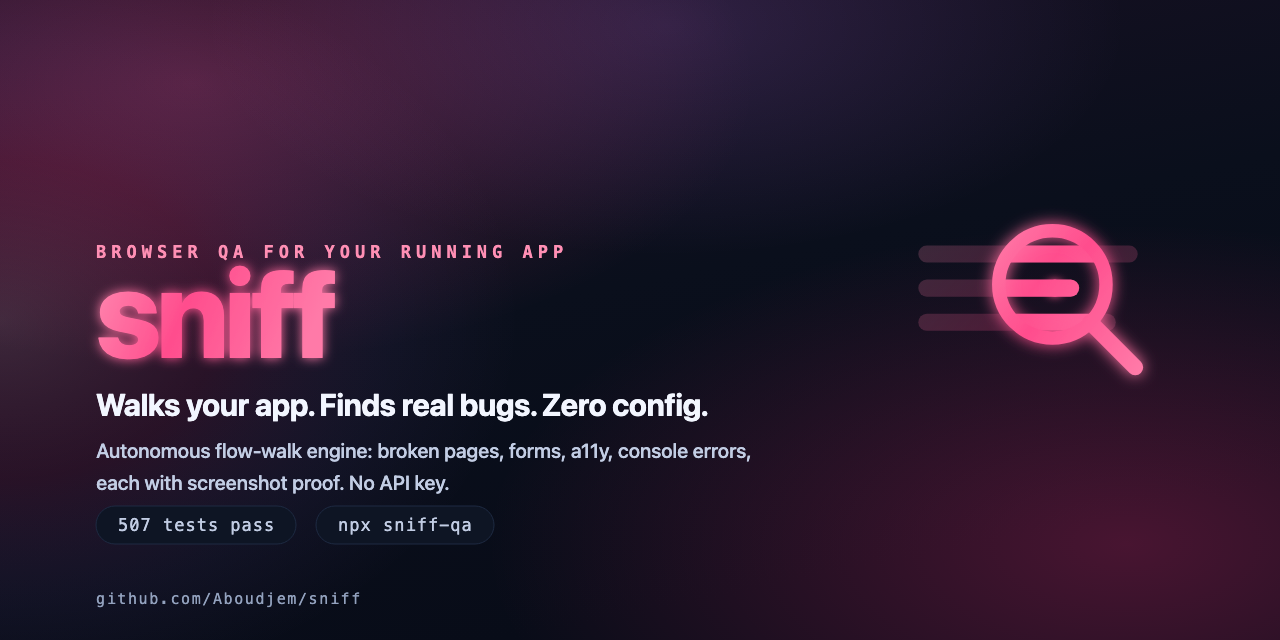
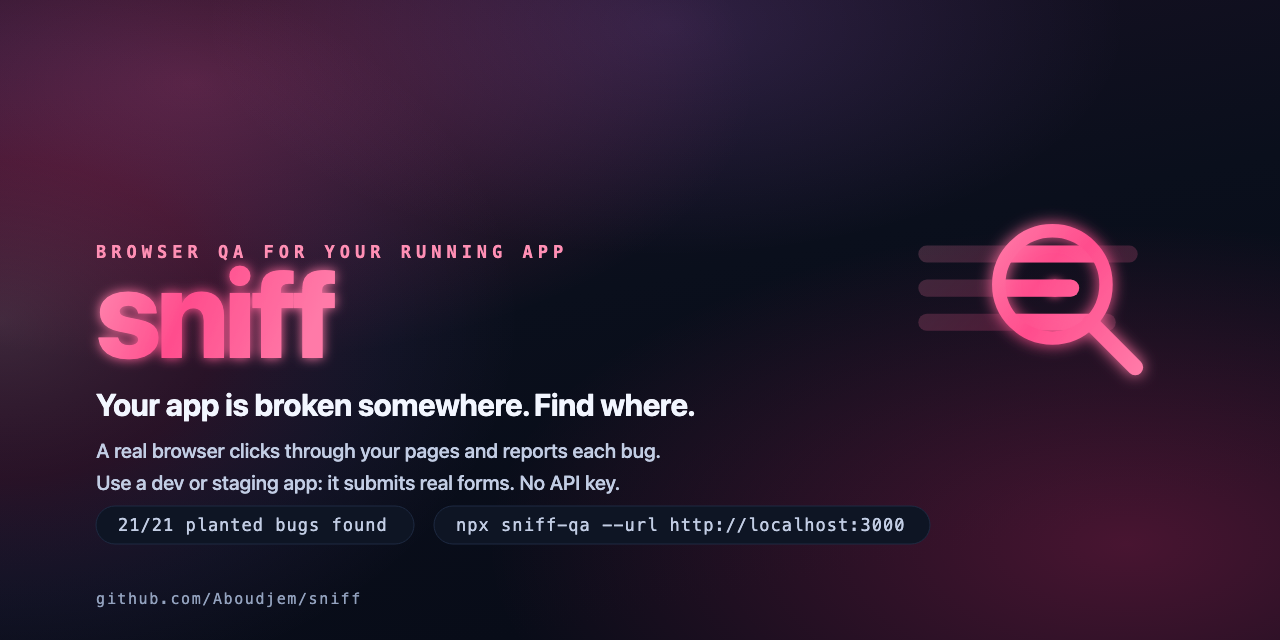
release: 0.9.2, a clearer first screen and truer wording
The README opens with the outcome, the command and the real report, then
a Why use it block with three benefits and their proof. The limit sits
next to the promise: a walk submits real forms, so use a dev or staging app.

Listing descriptions are one plain sentence. The README no longer says
every finding has a screenshot (23 of 27 on the fixture do), and the
first-run size is measured with npx sniff-qa install. Translations, hero
banners, the social preview, llms.txt, AGENTS.md and the Pages site carry
the same line. No behaviour change.

Changed region(s): [[0.0625, 0.6875, 0.5938, 0.7812], [0.0938, 0.7812, 0.75, 0.875], [0.0625, 0.5938, 0.5625, 0.6562]]

diff --git a/site/index.html b/site/index.html
@@ -3,10 +3,10 @@
 <head>
   <meta charset="utf-8" />
   <meta name="viewport" content="width=device-width, initial-scale=1" />
-  <title>Sniff - autonomous QA scanner for your running app</title>
-  <meta name="description" content="Point Sniff at your running app. It walks your real user flows in a real browser and tells you what is actually broken, with proof. No API key." />
-  <meta property="og:title" content="Sniff - autonomous QA scanner" />
-  <meta property="og:description" content="Walks your running app in a real browser and reports real bugs with reproduction proof." />
+  <title>sniff - catch what is broken in your web app before your users do</title>
+  <meta name="description" content="Catch the 500s, dead links and broken forms in your running web app, each with the steps that reproduce it. No API key." />
+  <meta property="og:title" content="sniff: catch what is broken before your users do" />
+  <meta property="og:description" content="A real browser clicks through your pages and reports each bug, with the steps that reproduce it." />
   <meta property="og:image" content="assets/demo.svg" />
   <style>
     :root {
@@ -57,7 +57,7 @@
 <body>
   <header class="wrap">
     <img class="logo" src="assets/logo-dark.svg" alt="Sniff" onerror="this.style.display='none'" />
-    <p class="tagline">Point it at your running app. It walks your real user flows in a real browser and tells you what is actually broken, with proof. No API key.</p>
+    <p class="tagline">Catch what is broken in your web app before your users do. A real browser clicks through your pages and reports each bug with the steps that reproduce it. Use a dev or staging app: it submits real forms. No API key.</p>
     <div class="cta">
       <a class="btn primary" href="https://github.com/Aboudjem/sniff">View on GitHub</a>
       <a class="btn" href="sample-report.html">See a sample report</a>

diff --git a/README.md b/README.md
@@ -12,7 +12,7 @@
 
 <p align="center"><b>English</b> · <a href="READMEs/zh-CN.md">简体中文</a> · <a href="READMEs/ja.md">日本語</a> · <a href="READMEs/es.md">Español</a> · <a href="READMEs/fr.md">Français</a></p>
 
-<p align="center"><b>Point it at your running app. It clicks through your pages in a real browser and tells you what is broken, with the steps to reproduce it.</b></p>
+<p align="center"><b>Catch what is broken in your web app before your users do.</b></p>
 
 <p align="center"><a href="#what-you-get">What you get</a> · <a href="#install">Install</a> · <a href="#how-it-works">How it works</a> · <a href="#works-with">Works with</a> · <a href="#proof">Proof</a> · <a href="#faq">FAQ</a> · <a href="#limits">Limits</a></p>
 
@@ -24,7 +24,6 @@ npx sniff-qa --url http://localhost:3000
 
 A report that opens with the verdict, then the three things to fix first, then every finding.
 This is the report from a real run on this repo's planted-bug fixture (2026-11-17, sniff 0.9.0).
-The progress lines that print before it are left out.
 
 ```text
   VERDICT  FAIL: 26 findings (1 critical, 13 high, 11 medium, 1 low)
@@ -46,26 +45,25 @@ The progress lines that print before it are left out.
       shot: sniff-reports/crawl/_crash-desktop.png
 ```
 
-Each finding carries a severity, a confidence label, the route, the steps, a fix and a screenshot.
+You changed one form, and now a page you never opened throws a 500. sniff opens your running app
+in a real browser and clicks through it like a user would. Each page bug it reports comes with
+the steps that reproduce it.
 
-To reproduce it from a clone, start the fixture, then walk it from a second terminal:
+### Why use it
+
+- **Fix it, do not hunt for it.** Each page finding names the route, the steps and a fix, most with a screenshot.
+- **Proof it catches real bugs.** Tested on bugs planted on purpose: 21 of 21 found, 0 false findings on the clean page (`npm run build && npm run proof`).
+- **Block bad merges.** `--fail-on` exits 1 on critical or high findings, and `npx sniff-qa ci` writes the GitHub Actions file. No API key.
+
+It needs your app running, and it submits real forms, so use a dev or staging app.
+The first walk downloads a browser once, about 720 MB on disk on a Mac.
+
+To reproduce the sample from a clone, start the fixture, then walk it from a second terminal:
 
 ```bash
 node sniff-tests/planted-bugs/server.mjs 4517
 npx sniff-qa --url http://localhost:4517
 ```
-
-| Output          | Flag        | Use it for                                  |
-| :-------------- | :---------- | :------------------------------------------ |
-| Terminal report | (default)   | Reading the result now                      |
-| HTML page       | `--report`  | Sending to someone, one self-contained file |
-| JSON            | `--json`    | Scripts and other tools                     |
-| Exit code       | `--fail-on` | Failing CI on real bugs                     |
-
-| Exit code | Meaning                                                                         |
-| :-------- | :------------------------------------------------------------------------------ |
-| `0`       | No finding reached the `--fail-on` severities (default: critical and high)      |
-| `1`       | A finding reached them, an `assert` budget was breached, or sniff could not run |
 
 <img alt="sniff walking a buggy app and streaming findings with severity, confidence, steps to reproduce, and a fix" src="https://raw.githubusercontent.com/Aboudjem/sniff/main/.github/assets/demo.gif" width="100%">
 
@@ -101,14 +99,20 @@ claude mcp add sniff-qa -- npx -y sniff-qa --mcp
 ```
 
 The first walk downloads two things, once: the browser engine (Playwright, axe-core and
-Lighthouse, about 200 MB) and Chromium (about 165 MB). Both took 159 s here on 2026-11-17.
-To do it ahead of time, run:
+Lighthouse) and Chromium. To do it ahead of time, run:
 
 ```bash
 npx sniff-qa install
 ```
 
-It ends with the time it took. `npx sniff-qa doctor` checks Node, the browser and your dev server.
+It ends with the time it took. On a Mac with an empty npm cache it printed 34 s (2026-11-17, sniff 0.9.1).
+It left 193 MB of engine and 528 MB of Chromium on disk. To re-measure on macOS:
+
+```bash
+du -sm ~/.cache/sniff-qa/engine/* ~/Library/Caches/ms-playwright
+```
+
+`npx sniff-qa doctor` checks Node, the browser and your dev server.
 
 The MCP server starts before those downloads. With an empty npm cache, `npx -y sniff-qa@0.9.1 --mcp`
 answered its first handshake in 3.1 to 4.9 s (5 runs, 2026-11-17). Version 0.9.0 took 37 to 93 s,
@@ -117,6 +121,20 @@ past Claude Code's 30 s connect limit. To re-measure, in a clone of this repo:
 ```bash
 npm run cold-start -- 0.9.1 5
 ```
+
+A walk prints progress lines, then the report. You can take the result four ways:
+
+| Output          | Flag        | Use it for                                  |
+| :-------------- | :---------- | :------------------------------------------ |
+| Terminal report | (default)   | Reading the result now                      |
+| HTML page       | `--report`  | Sending to someone, one self-contained file |
+| JSON            | `--json`    | Scripts and other tools                     |
+| Exit code       | `--fail-on` | Failing CI on real bugs                     |
+
+| Exit code | Meaning                                                                         |
+| :-------- | :------------------------------------------------------------------------------ |
+| `0`       | No finding reached the `--fail-on` severities (default: critical and high)      |
+| `1`       | A finding reached them, an `assert` budget was breached, or sniff could not run |
 
 <details>
 <summary>Project install and CI</summary>
@@ -132,7 +150,7 @@ with browser caching and report artifacts.
 1. **Find the app.** It uses `--url`, or a dev server on a common port.
 2. **Walk it.** A headless Chromium follows your links, clicks buttons and fills forms, like a user.
 3. **Judge what happened.** Each page is checked for 12 classes of bugs.
-4. **Prove it.** A finding needs a route, the steps, a screenshot and the console or network excerpt.
+4. **Prove it.** A finding needs a route and the steps. It adds a screenshot and the console or network lines when it has them.
 5. **Report.** Verdict first, then the fix-first list, then the detail.
 
 The 12 classes:
@@ -233,7 +251,7 @@ More answers are in [docs/faq.md](docs/faq.md).
 ## Limits
 
 - It needs a running app for the walk. Without one you only get the source scan.
-- The first walk needs internet to download the browser engine and Chromium once, about 365 MB.
+- The first walk needs internet to download the browser engine and Chromium once, 721 MB on disk on a Mac.
 - Until then, MCP browser tools answer `needsSetup` and the agent calls `sniff_install` first.
 - Dead-link checking follows external links, so a walk requests the third-party URLs your pages link to.
 - Redaction covers report text, not screenshot pixels. A screenshot of a logged-in page can show private data.

diff --git a/READMEs/ja.md b/READMEs/ja.md
@@ -12,7 +12,7 @@
 
 <p align="center"><a href="../README.md">English</a> · <a href="zh-CN.md">简体中文</a> · <b>日本語</b> · <a href="es.md">Español</a> · <a href="fr.md">Français</a></p>
 
-<p align="center"><b>起動中のアプリに向けるだけ。実際のブラウザで本物のユーザーフローを歩き、どこが本当に壊れているかを証拠つきで教えます。</b></p>
+<p align="center"><b>ユーザーより先に、Web アプリの壊れた箇所を見つけます。</b></p>
 
 <p align="center"><a href="#何をするツールか">何をするツールか</a> · <a href="#インストール">インストール</a> · <a href="#使い方">使い方</a> · <a href="#得られるもの">得られるもの</a> · <a href="#エディタで使う">エディタで使う</a> · <a href="#知っておくこと">知っておくこと</a></p>
 
@@ -25,18 +25,21 @@ claude plugin install sniff@10x
 
 ## 何をするツールか
 
-ほとんどのリンターはソースを読むだけで、アプリを動かすことはありません。E2E フレームワークはテストを
-自分で書いて維持することを求めます。sniff は起動中のアプリを実際のブラウザで開き、ユーザーと同じように
-クリックや入力を行い、その結果を判定します。
+フォームを 1 つ変えただけなのに、開いたこともないページが 500 を返すようになった。sniff は起動中の
+アプリを実際のブラウザで開き、ユーザーと同じようにページをたどります。報告するページの不具合には、
+それを再現する手順が付きます。
 
-- **12 種類の不具合を見つけます。** HTTP 500 のルートや切れたリンクから、プレースホルダのデータ、
-  反応しない送信ボタン、ブラウザの戻るで消えるフォーム、止まらないスピナー、モバイル幅での横方向の
-  はみ出しまで。
-- **すべてに証拠がつきます。** どの検出結果にも、対象のルートとそれを生んだ順序どおりの手順が付き、
-  さらにその検査が取得したスクリーンショットとコンソールまたはネットワークの抜粋が付きます。手順が
-  なければ検出結果にしません。
-- **実測しています。** 12 種類すべてにまたがる 21 個の不具合を仕込み、さらにクリーンな対照ページを
-  用意したフィクスチャアプリで、sniff は 21 個中 21 個を検出し、対照ページでは何も報告しませんでした。
+### 使う理由
+
+- **探さずに直せます。** ページの検出結果にはルート、手順、修正案が付き、ほとんどにスクリーンショットが
+  付きます。
+- **本物の不具合を見つける証拠があります。** わざと仕込んだ不具合で検証し、21 個中 21 個を検出、
+  クリーンなページでの誤検出は 0 件です（`npm run build && npm run proof`）。
+- **悪いマージを止められます。** `--fail-on` は critical か high の検出で終了コード 1 を返し、
+  `npx sniff-qa ci` が GitHub Actions のファイルを書きます。API キーは不要です。
+
+アプリが起動している必要があり、本物のフォームを送信するので、開発用かステージングのアプリに向けてください。
+最初のウォークではブラウザを一度だけダウンロードします。Mac ではディスク上で約 720 MB です。
 
 ## インストール
 
@@ -111,7 +114,7 @@ sniff v0.8.0  walking http://localhost:4321
   <img alt="The 12 classes of bugs sniff finds" src="https://raw.githubusercontent.com/Aboudjem/sniff/main/.github/assets/features-light.svg" width="100%">
 </picture>
 
-- **ターミナルのレポート。** 深刻度ごとにまとまり、各検出結果に手順、修正案、スクリーンショットのパスが
+- **ターミナルのレポート。** 深刻度ごとにまとまり、各検出結果に手順、修正案、多くの場合スクリーンショットのパスが
   付きます。
 - **共有できるファイル。** `--report` で自己完結型の HTML レポート、`--json` で JSON が得られます。
 - **終了コード。** 検出結果が `--fail-on` の深刻度に達すると 0 以外を返すので、CI は本物の不具合で

diff --git a/READMEs/zh-CN.md b/READMEs/zh-CN.md
@@ -12,7 +12,7 @@
 
 <p align="center"><a href="../README.md">English</a> · <b>简体中文</b> · <a href="ja.md">日本語</a> · <a href="es.md">Español</a> · <a href="fr.md">Français</a></p>
 
-<p align="center"><b>把它指向你正在运行的应用。它会用真实浏览器走一遍你真实的用户流程，并带着证据告诉你哪里真的坏了。</b></p>
+<p align="center"><b>在用户发现之前，找出你的 Web 应用里坏掉的地方。</b></p>
 
 <p align="center"><a href="#它做什么">它做什么</a> · <a href="#安装">安装</a> · <a href="#使用方法">使用方法</a> · <a href="#你会得到什么">你会得到什么</a> · <a href="#在你的编辑器中使用">在你的编辑器中使用</a> · <a href="#需要知道的事">需要知道的事</a></p>
 
@@ -25,15 +25,19 @@ claude plugin install sniff@10x
 
 ## 它做什么
 
-大多数静态检查工具只读你的源码，从不真正运行你的应用；端到端测试框架则要求你自己编写并维护测试。
-sniff 会用真实浏览器打开你正在运行的应用，像用户那样点击和填写，然后判断实际发生了什么。
+你只改了一个表单，结果一个你从没打开过的页面开始返回 500。sniff 会用真实浏览器打开你正在运行的
+应用，像用户那样逐页点过去。它报告的每个页面缺陷都附带能复现它的步骤。
 
-- **它能发现 12 类缺陷**，从 HTTP 500 路由和失效链接，到占位数据、点了没反应的提交按钮、被浏览器后退
-  按钮清空的表单、卡住的加载动画，以及移动端横向溢出。
-- **每一条都有证据。** 每条结果都会带上路由和产生它的有序操作步骤，以及该项检查所采集到的截图和
-  控制台或网络片段。没有步骤，就不算结果。
-- **它经过实测。** 在一个植入了 21 个缺陷、覆盖全部 12 类，并额外带一个干净对照页面的样例应用上，
-  sniff 找出了 21 个中的 21 个，并且在对照页面上没有报出任何结果。
+### 为什么用它
+
+- **直接修，不用找。** 每条页面结果都给出路由、步骤和修复建议，大多数还附带截图。
+- **有证据表明它能抓到真缺陷。** 在故意植入的缺陷上测试：21 个中找到 21 个，干净页面上 0 条误报
+  （`npm run build && npm run proof`）。
+- **拦住有问题的合并。** 出现 critical 或 high 结果时 `--fail-on` 以 1 退出，`npx sniff-qa ci`
+  会写好 GitHub Actions 文件。不需要 API 密钥。
+
+它需要你的应用正在运行，而且会提交真实表单，所以请用开发或预发布环境的应用。第一次遍历会下载一次浏览器，
+在 Mac 上约占 720 MB 磁盘空间。
 
 ## 安装
 
@@ -106,7 +110,7 @@ sniff v0.8.0  walking http://localhost:4321
   <img alt="The 12 classes of bugs sniff finds" src="https://raw.githubusercontent.com/Aboudjem/sniff/main/.github/assets/features-light.svg" width="100%">
 </picture>
 
-- **一份终端报告**，按严重程度分组，每条结果都带步骤、修复建议和一个截图路径。
+- **一份终端报告**，按严重程度分组，每条结果都带步骤、修复建议，大多数还带一个截图路径。
 - **一个可分享的文件**，用 `--report` 得到自包含的 HTML 报告，或用 `--json` 得到 JSON。
 - **一个退出码**，当结果达到 `--fail-on` 指定的严重程度时返回非零值，于是 CI 会因真实缺陷而失败。
 - **每条结果上的置信度标签**。除非你传入 `--all`，否则 `uncertain` 不会显示在终端里。

diff --git a/READMEs/es.md b/READMEs/es.md
@@ -12,7 +12,7 @@
 
 <p align="center"><a href="../README.md">English</a> · <a href="zh-CN.md">简体中文</a> · <a href="ja.md">日本語</a> · <b>Español</b> · <a href="fr.md">Français</a></p>
 
-<p align="center"><b>Apúntalo a tu aplicación en ejecución. Recorre tus flujos de usuario reales en un navegador real y te dice qué está roto de verdad, con pruebas.</b></p>
+<p align="center"><b>Detecta lo que está roto en tu aplicación web antes que tus usuarios.</b></p>
 
 <p align="center"><a href="#qué-hace">Qué hace</a> · <a href="#instalación">Instalación</a> · <a href="#cómo-usarlo">Cómo usarlo</a> · <a href="#qué-obtienes">Qué obtienes</a> · <a href="#funciona-en-tu-editor">Funciona en tu editor</a> · <a href="#conviene-saber">Conviene saber</a></p>
 
@@ -25,20 +25,21 @@ claude plugin install sniff@10x
 
 ## Qué hace
 
-La mayoría de los linters leen tu código fuente sin llegar a ejecutar tu aplicación, y los frameworks
-de extremo a extremo te piden escribir y mantener las pruebas por tu cuenta. sniff abre tu aplicación
-en ejecución en un navegador real, hace clic y rellena campos como lo haría una persona, y juzga lo
-que ocurrió de verdad.
+Cambiaste un formulario, y ahora una página que nunca abriste devuelve un error 500. sniff abre tu
+aplicación en ejecución en un navegador real y la recorre como lo haría un usuario. Cada error de
+página que informa trae los pasos que lo reproducen.
 
-- **Encuentra 12 clases de errores**, desde rutas que devuelven HTTP 500 y enlaces rotos hasta datos
-  de relleno, botones de envío que no hacen nada, formularios que el botón de retroceso vacía,
-  indicadores de carga atascados y desbordamiento en móvil.
-- **Prueba cada uno.** Cada hallazgo lleva la ruta y los pasos ordenados que lo produjeron, más la
-  captura de pantalla y el fragmento de consola o de red que recogió la comprobación. Sin pasos, no
-  hay hallazgo.
-- **Está medido.** Sobre una aplicación de prueba con 21 errores plantados que cubren las 12 clases,
-  más una página de control limpia, sniff encuentra 21 de 21 y no informa nada en la página de
-  control.
+### Por qué usarlo
+
+- **Arregla en lugar de buscar.** Cada hallazgo de página indica la ruta, los pasos y un arreglo, la
+  mayoría con una captura de pantalla.
+- **Prueba de que encuentra errores reales.** Probado con errores plantados a propósito: 21 de 21
+  encontrados, 0 hallazgos falsos en la página limpia (`npm run build && npm run proof`).
+- **Bloquea los merges malos.** `--fail-on` sale con 1 ante un hallazgo crítico o alto, y
+  `npx sniff-qa ci` escribe el archivo de GitHub Actions. Sin clave de API.
+
+Necesita tu aplicación en marcha, y envía formularios reales: usa una aplicación de desarrollo o de
+staging. El primer recorrido descarga un navegador una vez, unos 720 MB en disco en un Mac.
 
 ## Instalación
 

diff --git a/CHANGELOG.md b/CHANGELOG.md
@@ -7,6 +7,23 @@ and this project adheres to [Semantic Versioning](https://semver.org/spec/v2.0.0
 
 ## [Unreleased]
 
+## [0.9.2] - 2026-11-17
+
+A clearer first screen and truer wording. No behaviour change: the code is the same as 0.9.1.
+
+### Changed
+
+- **README first screen.** It now opens with the outcome, the command and the real report. Under
+  the report, a short `Why use it` block gives three benefits, each with its proof. The limit sits
+  next to the promise: a walk submits real forms, so use a dev or staging app.
+- **Listing descriptions.** The plugin, npm, Gemini and MCP registry descriptions are now one plain
+  sentence instead of a feature list.
+- **Truer wording.** The README no longer says every finding has a screenshot. On the fixture, 23 of
+  27 findings have one, and source-scan findings have no route. The first-run size is now measured:
+  on a Mac, `npx sniff-qa install` left 193 MB of engine and 528 MB of Chromium on disk.
+- **Translations, hero banners, social preview, `llms.txt`, `AGENTS.md` and the Pages site** carry
+  the same one-liner.
+
 ## [0.9.1] - 2026-11-17
 
 The MCP server now connects on a new machine's first start.

diff --git a/AGENTS.md b/AGENTS.md
@@ -4,7 +4,7 @@ Instructions for AI agents and coding assistants working in, or invoking, this r
 
 ## What this repo is
 
-sniff is an autonomous QA scanner: point it at a running web app and it walks the app's real user flows in a real (headless) browser and reports what's actually broken, with proof. It is not a static linter. npm package `sniff-qa` (binaries `sniff` and `sniff-qa`); ships as both a CLI and an MCP server (Claude Code plugin); Apache-2.0; Node >= 22; no API key required.
+sniff catches what is broken in a running web app before its users do. It walks the app in a real (headless) browser and reports each page bug with the route, the steps that reproduce it and a fix. A walk clicks buttons and submits real forms, so point it at a dev or staging app. It is not a static linter. npm package `sniff-qa` (binaries `sniff` and `sniff-qa`); ships as both a CLI and an MCP server (Claude Code plugin); Apache-2.0; Node >= 22; no API key required.
 
 ## How an agent should USE sniff
 
